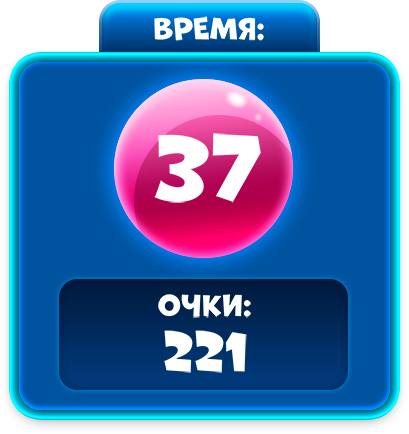
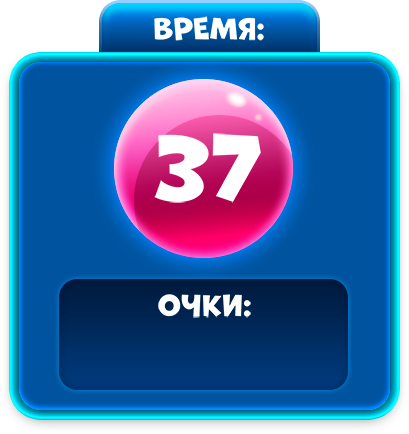
Добавил подсчет очков при взрыве кубиков

Changed region(s): [[0.3814, 0.7488, 0.6161, 0.8687]]

diff --git a/src/scripts/components/game-handler.js b/src/scripts/components/game-handler.js
@@ -4,6 +4,8 @@ import gameSettings from "../config/game-config";
 export class GameScene extends Phaser.Scene {
     constructor() {
         super("Game");
+        this.score = 0;
+        this.scoreText = "";
     }
 
     preload() {
@@ -58,6 +60,7 @@ export class GameScene extends Phaser.Scene {
             frameWidth: 62.2,
             frameHeight: 71
         });
+        this.scoreText = this.add.text(width / 5 * 4 - 80, height / 2 + 30, '0', { fontSize: '55px', fill: '#fff', align: "center" });
     }
 
     create() {
@@ -89,7 +92,7 @@ export class GameScene extends Phaser.Scene {
             let row = Math.floor((pointer.y - gameSettings.boardOffset.y) / gameSettings.cubeProportions_y);
             let col = Math.floor((pointer.x - gameSettings.boardOffset.x) / gameSettings.cubeProportions_x);
             if (this.newGame.validPick(row, col)) {
-                if (this.newGame.countConnectedItems(row, col) > 2) {
+                if (this.newGame.countConnectedItems(row, col) > 1) {
                     this.canBreak = false;
                     let removeCube = this.newGame.listConnectedItems(row, col);
                     let destroyed = 0;
@@ -119,6 +122,7 @@ export class GameScene extends Phaser.Scene {
         let fallingCubes = 0;
         let moves = this.newGame.arrangeBoard();
         let refillMoves = this.newGame.refillBoard();
+        this.changeScore(this.newGame.floodFillArray.length,);
         moves.forEach(function(movement) {
             fallingCubes++;
             this.tweens.add({
@@ -155,5 +159,17 @@ export class GameScene extends Phaser.Scene {
                 }
             });
         }.bind(this))
+    }
+
+    // Подсчет очков
+    changeScore(cube) {
+        if (cube < 3) {
+            this.score += 5 * cube;
+        } else if (cube >= 3 && cube < 5) {
+            this.score += 10 * cube;
+        } else if (cube >= 5) {
+            this.score += 20 * cube;
+        }
+        this.scoreText.setText(this.score);
     }
 }
